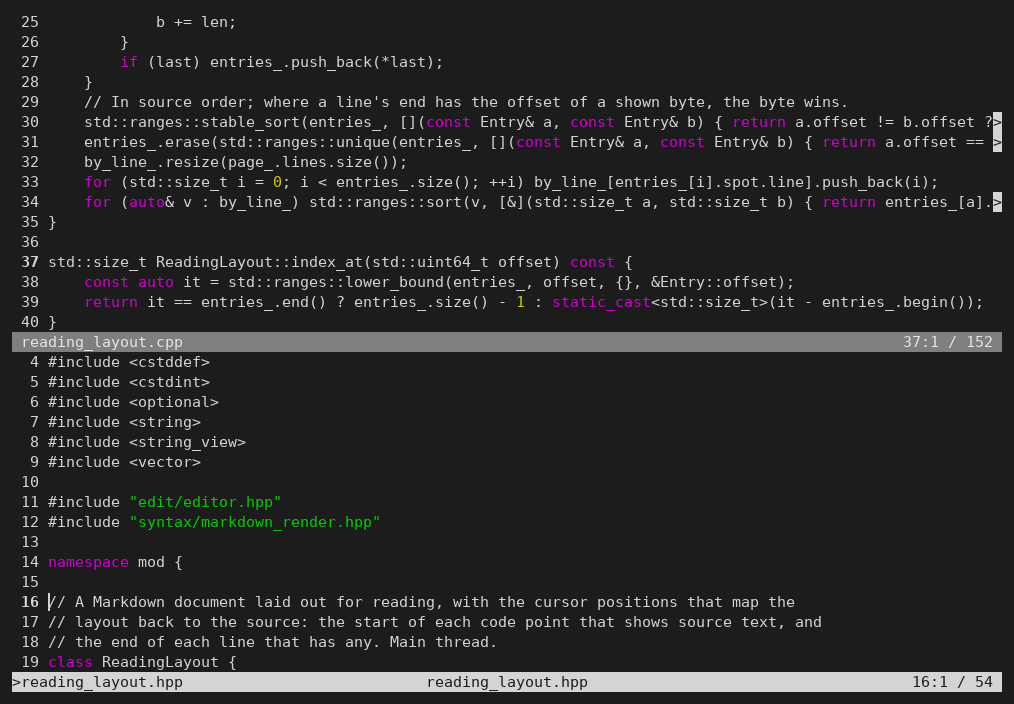
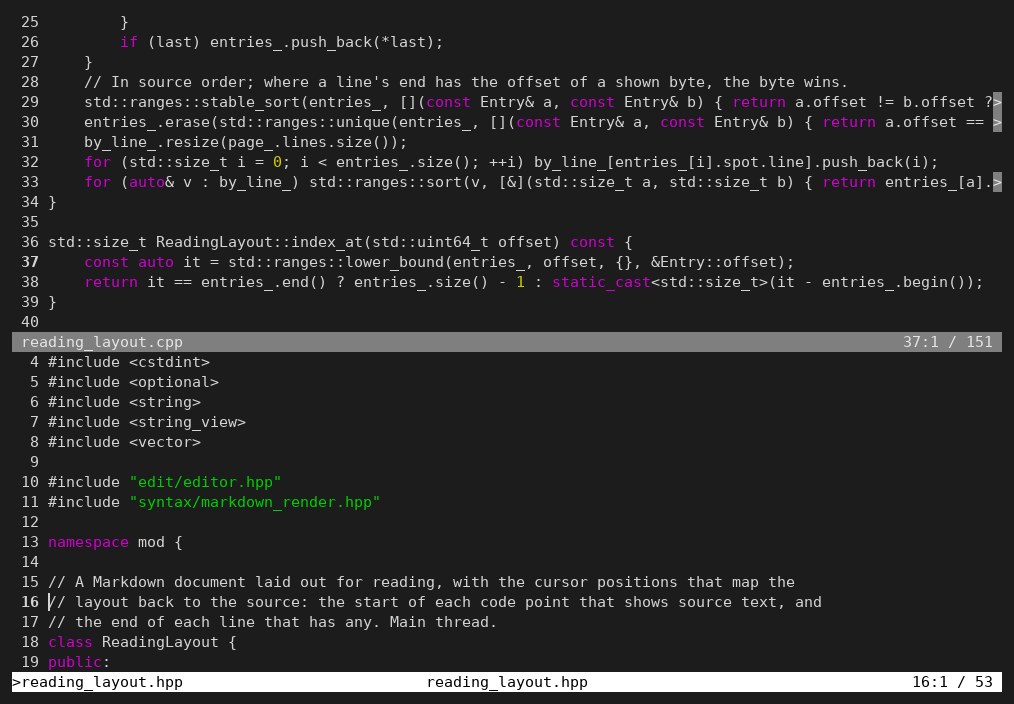
docs: new screenshots of the current UI
The README's pictures are made again with tools/screenshot.py: the new
status bar colors, and the downward Undo History pane with the undone
edit's branch opened (the scene now opens it, as the pane starts with it
closed).

Fixes #3

Claude-Session: https://claude.ai/code/session_01XyM6q6WtBX7SvEsWmfnC5A

Changed region(s): [[0.0917, 0.0312, 1.0, 0.3125], [0.0, 0.5, 1.0, 1.0], [0.0306, 0.3438, 0.9783, 0.4375]]

diff --git a/tools/screenshot.py b/tools/screenshot.py
@@ -32,6 +32,7 @@ FONT_SIZE = 15
 
 ESC = b"\x1b"
 SHIFT_DOWN = b"\x1b[1;2B"
+UP, RIGHT = b"\x1b[A", b"\x1b[C"
 CTRL_G, CTRL_Z = b"\x07", b"\x1a"
 
 # xterm's 16 colors, and the page around them.
@@ -161,6 +162,13 @@ def undo_history(mod, work, config, out):
     s.type(" however small the screen.")
     s.menu(b"e", b"h")              # Edit > Undo History…
     s.pump(0.6)
+    # The undone words are a closed branch (○>) above the current state (●): open it.
+    rows = s.screen.display
+    branch = next(y for y, r in enumerate(rows) if "○>" in r)
+    current = next(y for y, r in enumerate(rows) if "●" in r)
+    for _ in range(current - branch):
+        s.send(UP)
+    s.send(RIGHT, settle=0.4)
     render(s.screen, out / "undo-history.png")
     s.close()
 

diff --git a/skel/tools/screenshot.py.skel.md b/skel/tools/screenshot.py.skel.md
@@ -1,14 +1,14 @@
 ---
 role: product
 untested: a generator run by hand when the look changes; its output is looked at
-stamp: source 85e25a9f, stand-in 260891e0
+stamp: source 6754e78d, stand-in e371f4b1
 ---
 # module: screenshot
 
 Makes the README's pictures by running mod itself: Python 3 with `pyte` (a terminal emulator) and Pillow. It starts the built `mod` (default `build/linux-release/mod`) in a pseudo-terminal of 110×34 with a fresh configuration folder, sends keys, lets the screen settle, and draws pyte's screen into a PNG with DejaVu Sans Mono (bold for bold), xterm's 16 colors, on a dark background, with the cursor shown as a bar.
 
 - [screenshot.png](../docs/images/screenshot.png.skel.md): mod's own source in two split views (`src/ui/reading_layout.cpp` above, `src/ui/reading_layout.hpp` below), syntax colored, line numbers on.
-- [undo-history.png](../docs/images/undo-history.png.skel.md): a copy of a source file edited, an edit undone and a different one made, so the Undo History pane shows a branch.
+- [undo-history.png](../docs/images/undo-history.png.skel.md): a copy of a source file edited, an edit undone and a different one made; the Undo History pane opens with that branch closed (`○>` above the `●`), so the scene moves up to it and opens it with Right.
 
 The source files are copied into a temporary folder first, so the repository is never changed.
 

diff --git a/skel/docs/images/undo-history.png.skel.md b/skel/docs/images/undo-history.png.skel.md
@@ -1,7 +1,7 @@
 ---
 role: product
 kind: resource
-stamp: source d8aeedaa, stand-in 08662522
+stamp: source 43ff936d, stand-in 08662522
 ---
 # resource: undo-history.png
 

diff --git a/skel/docs/images/screenshot.png.skel.md b/skel/docs/images/screenshot.png.skel.md
@@ -1,7 +1,7 @@
 ---
 role: product
 kind: resource
-stamp: source a89cf6cb, stand-in f96fff56
+stamp: source 62f05334, stand-in f96fff56
 ---
 # resource: screenshot.png
 
